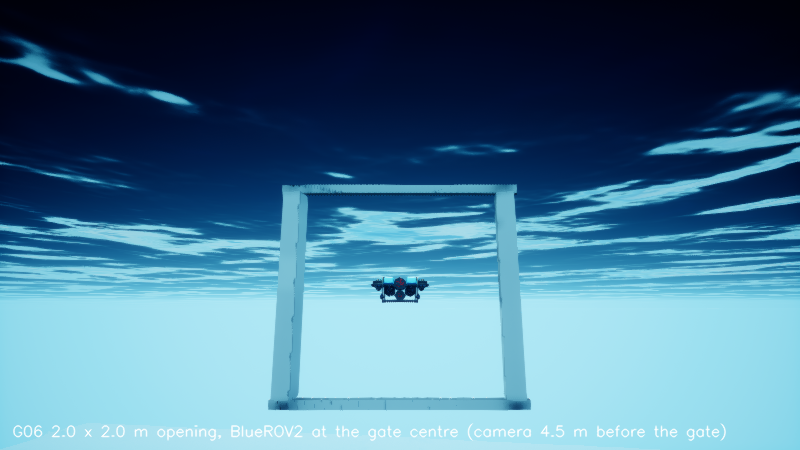
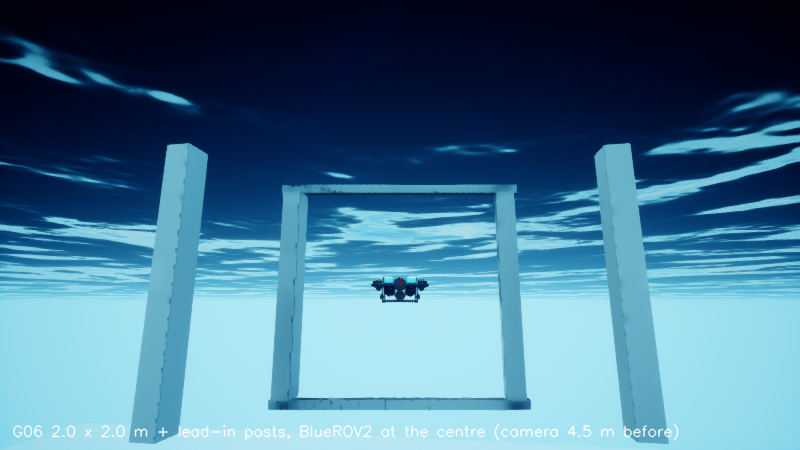
Add two lead-in posts at the relocalization hold point of gate G06
From the hold point before the critical region the side bars of the 2.0 m gate
fall at the edge of the LEFT/RIGHT cones, so a single fit often cannot tell the
lateral position. Two passive vertical posts with the side bars' section, at
s = -1.2 m and l = +-1.6 m (outside the critical region, beyond struct_keepout
of a drone on the axis), are mapped and spawned like the bars. In the closed-loop
replay of synthetic echoes at the hold zone the gate localization is confirmed
in 84 % of the poses instead of 47 %, never for a hull outside the opening.
Tests that placed the drone relative to the 1.5 m opening now place it relative
to the current one.

Changed region(s): [[0.1562, 0.3111, 0.9062, 0.9956], [0.5938, 0.6222, 0.6875, 0.9022]]

diff --git a/holo_fleet/arena_bridge.py b/holo_fleet/arena_bridge.py
@@ -25,6 +25,15 @@ HORSESHOE_TRACK = "marine_race_arena/tracks/marine_race_horseshoe_bay.json"
 # the opening still ends at the edges of the critical region (cr_half_width = cr_half_height = 1.0 m), so the mutex
 # geometry is unchanged.  The perception map and the spawned bars are built from the same overridden config.
 GATE_INNER_SIZE_M = {"G06": (2.0, 2.0)}
+# Two passive vertical lead-in posts per gate, at (s, +-|l|) in the gate frame [m], with the side bars' section and
+# height.  At the relocalization hold before the critical region (s ~ -1.2) the LEFT/RIGHT sonars see them near their
+# axis, a direct lateral range; the side bars alone fall at the edge of those cones there.  In the closed-loop replay
+# of synthetic echoes at the hold zone (s -1.8..-1.2, |l| <= 0.6, +-5 deg yaw, 0.3-0.5 m lateral error, 0.05 m range
+# noise, 8 % fades) the gate localization is confirmed in 84 % of the poses instead of 47 %, with no confirmation of
+# a hull outside the opening; one noise-free pose (s -1.8, a post at the FRONT cone edge) took a correction that
+# fixed the lateral error but moved the estimate 0.48 m along the axis.  Mapped like the bars (STRUCTURE), outside the critical region,
+# 1.6 m from the axis (beyond struct_keepout of a drone on the passage path).
+GATE_MARKERS_M = {"G06": (-1.2, 1.6)}
 
 
 def arena_root() -> Path:
@@ -69,8 +78,25 @@ def _gate_factory(track_rel: str, inner_size: Optional[dict] = None):
     return GateFactory(dataclasses.replace(cfg, gates=gates))
 
 
+def _visual_gate(factory, g, markers: Optional[dict] = None):
+    """The arena's four bars of gate g plus its GATE_MARKERS_M lead-in posts (copies of a side bar, moved)."""
+    vis = factory.build_visual_gate(g)
+    markers = GATE_MARKERS_M if markers is None else markers
+    if g.id not in markers:
+        return vis
+    s_m, l_m = markers[g.id]
+    side = next(b for b in vis.bars if b.part in ("left", "right"))
+    axis = np.array([g.passage_direction[0], g.passage_direction[1], 0.0], dtype=float)
+    axis /= np.linalg.norm(axis)
+    left = np.array([-axis[1], axis[0], 0.0])
+    extra = [dataclasses.replace(side, id=f"{g.id}_marker_{name}", part="marker",
+                                 position=tuple(float(v) for v in np.asarray(g.center, float) + s_m * axis + sign * l_m * left))
+             for name, sign in (("left", 1.0), ("right", -1.0))]
+    return dataclasses.replace(vis, bars=list(vis.bars) + extra)
+
+
 def load_arena_gates(track_rel: str = HORSESHOE_TRACK, gate_ids: Optional[Sequence[str]] = None,
-                     inner_size: Optional[dict] = None):
+                     inner_size: Optional[dict] = None, markers: Optional[dict] = None):
     from holo_fleet.mission import BarBox, GateSpec
 
     factory = _gate_factory(track_rel, inner_size)
@@ -80,7 +106,7 @@ def load_arena_gates(track_rel: str = HORSESHOE_TRACK, gate_ids: Optional[Sequen
     out: List[GateSpec] = []
     for gid in wanted:
         g = by_id[gid]
-        vis = factory.build_visual_gate(g)
+        vis = _visual_gate(factory, g, markers)
         bars = []
         for bar in vis.bars:
             axes = _rotation_axes(bar.rotation_rpy_deg)
@@ -98,7 +124,7 @@ def visual_gates(track_rel: str = HORSESHOE_TRACK, gate_ids: Optional[Sequence[s
     """Arena VisualGate objects (bars) for spawning with the arena's HoloOcean spawner."""
     factory = _gate_factory(track_rel)
     gates = [g for g in factory.build_gates() if gate_ids is None or g.id in gate_ids]
-    return factory.build_visual_gates(gates)
+    return [_visual_gate(factory, g) for g in gates]
 
 
 def make_spawner(env):

diff --git a/tests/test_gate_opening.py b/tests/test_gate_opening.py
@@ -2,7 +2,9 @@
 
 import numpy as np
 
-from holo_fleet.arena_bridge import GATE_INNER_SIZE_M, HORSESHOE_TRACK, load_arena_gates, visual_gates
+from holo_fleet.arena_bridge import GATE_INNER_SIZE_M, GATE_MARKERS_M, HORSESHOE_TRACK, load_arena_gates, visual_gates
+from holo_fleet.perception import sonar_geometry as sg
+from holo_fleet.perception.sonar_processing import EchoClassifier
 from holo_fleet.config import DEFAULT
 from holo_fleet.perception.structure_aiding import HULL_LAT_M
 
@@ -11,7 +13,7 @@ def _side_bar_inner_edges(g):
     edges = []
     for b in g.bars:
         s, l, dz = g.to_gate_frame(b.center)
-        if abs(l) > 0.1:                                         # the two vertical side bars
+        if abs(l) > 0.1 and abs(s) < 0.5:                        # the two vertical side bars (not the posts)
             edges.append(abs(l) - b.half[1])
     return edges
 
@@ -33,8 +35,9 @@ def test_the_spawned_bars_match_the_map():
 
 
 def test_the_track_opening_is_still_available():
-    g = load_arena_gates(HORSESHOE_TRACK, ["G06"], inner_size={})[0]
+    g = load_arena_gates(HORSESHOE_TRACK, ["G06"], inner_size={}, markers={})[0]
     assert (g.inner_width, g.inner_height) == (1.5, 1.5)
+    assert len(g.bars) == 4
 
 
 def test_the_opening_ends_at_the_critical_region_and_widens_the_hull_margin():
@@ -43,3 +46,38 @@ def test_the_opening_ends_at_the_critical_region_and_widens_the_hull_margin():
     assert g.inner_height / 2.0 <= DEFAULT.gate.cr_half_height + 1e-9
     assert g.inner_width / 2.0 - HULL_LAT_M > 0.58                     # MEDIUM lateral DR error at the gate
     assert 1.5 / 2.0 - HULL_LAT_M < 0.45
+
+
+def _posts(g):
+    return [b for b in g.bars if abs(g.to_gate_frame(b.center)[0]) > 0.5]
+
+
+def test_two_lead_in_posts_flank_the_hold_point_outside_the_critical_region():
+    g = load_arena_gates(HORSESHOE_TRACK, ["G06"])[0]
+    posts = _posts(g)
+    s_m, l_m = GATE_MARKERS_M["G06"]
+    assert len(posts) == 2 and len(g.bars) == 6
+    for b in posts:
+        s, l, dz = g.to_gate_frame(b.center)
+        assert abs(s - s_m) < 1e-6 and abs(abs(l) - l_m) < 1e-6 and abs(dz) < 1e-6
+        assert abs(s) - b.half[0] > DEFAULT.gate.cr_half_len                   # outside the critical region
+        assert abs(l) - b.half[1] - HULL_LAT_M > DEFAULT.env.struct_keepout    # a drone on the axis keeps clear
+    s_hold = -(DEFAULT.gate.cr_half_len + float(sg.HULL_HALF[0]) + 0.15)
+    assert abs(s_hold - s_m) < 0.1
+
+
+def test_at_the_hold_point_the_side_sonars_see_the_posts_first():
+    """LEFT/RIGHT, on the axis at the hold point: the nearest mapped structure in the nominal cone is the post."""
+    g = load_arena_gates(HORSESHOE_TRACK, ["G06"])[0]
+    clf = EchoClassifier(gate_bars=list(g.bars), cfg=DEFAULT)
+    yaw = np.arctan2(g.axis[1], g.axis[0])
+    R = np.array([[np.cos(yaw), -np.sin(yaw), 0.0], [np.sin(yaw), np.cos(yaw), 0.0], [0.0, 0.0, 1.0]])
+    p = g.from_gate_frame([GATE_MARKERS_M["G06"][0], 0.0, 0.0])
+    for sec in ("LEFT", "RIGHT"):
+        a, _ = clf._sector_frame(sec, R)
+        m = p + R @ sg.MOUNTS[sec]
+        d = np.asarray(clf.struct_pts) - m
+        r = np.linalg.norm(d, axis=1)
+        inside = np.degrees(np.arccos(np.clip((d @ a) / r, -1.0, 1.0))) <= clf.model.half_angle_deg
+        k = np.argmin(np.where(inside, r, np.inf))
+        assert abs(g.to_gate_frame(np.asarray(clf.struct_pts)[k])[0] - GATE_MARKERS_M["G06"][0]) < 0.2, sec

diff --git a/scripts/make_gate_width_figure.py b/scripts/make_gate_width_figure.py
@@ -47,7 +47,7 @@ def _front(ax, g, err, title):
     ax.text(err + hy, 0.30 + hz + 0.04, "hull touches the bar" if touch else f"{W / 2 - err - HULL_LAT_M:.2f} m to the bar",
             color=c, fontsize=8, ha="right", weight="bold")
     ax.set_title(title, fontsize=11, color=INK, loc="left")
-    ax.set_xlim(-1.45, 1.45)
+    ax.set_xlim(-1.95, 1.95)
     ax.set_ylim(-1.3, 1.4)
     ax.set_aspect("equal")
     ax.set_xlabel("lateral l [m]  (front view, looking along the passage)")
@@ -74,19 +74,19 @@ def _top(ax, g, errs, title):
         ax.plot([s_hold - 0.55], [e], marker="o", ms=5, color=c, zorder=4)
     ax.text(s_hold - 0.55, 0.62, "true l of the\nheld drones", fontsize=7.5, ha="center", color=INK)
     n_bad = sum(abs(e) + HULL_LAT_M > W / 2.0 for e in errs)
-    ax.text(-2.15, -1.32, f"{n_bad}/{len(errs)} held drones would touch", fontsize=8.5, color=BAD if n_bad else OK,
+    ax.text(-0.75, -1.72, f"{n_bad}/{len(errs)} held drones would touch", fontsize=8.5, color=BAD if n_bad else OK,
             weight="bold")
     ax.annotate("", xy=(2.1, 0.0), xytext=(-2.1, 0.0), arrowprops=dict(arrowstyle="->", color=INK, lw=0.8))
     ax.set_title(title, fontsize=11, color=INK, loc="left")
     ax.set_xlim(-2.2, 2.2)
-    ax.set_ylim(-1.45, 1.45)
+    ax.set_ylim(-1.85, 1.85)
     ax.set_aspect("equal")
     ax.set_xlabel("along the passage s [m]  (top view)")
     ax.set_ylabel("lateral l [m]")
 
 
 def main(out, holds=None):
-    old = load_arena_gates(HORSESHOE_TRACK, ["G06"], inner_size={})[0]
+    old = load_arena_gates(HORSESHOE_TRACK, ["G06"], inner_size={}, markers={})[0]
     new = load_arena_gates(HORSESHOE_TRACK, ["G06"])[0]
     errs = []
     if holds:
@@ -96,7 +96,7 @@ def main(out, holds=None):
     for col, (g, tag) in enumerate(((old, "BEFORE"), (new, "AFTER"))):
         m = g.inner_width / 2.0 - HULL_LAT_M
         _front(axs[0, col], g, worst, f"{tag}: opening {g.inner_width:.2f} x {g.inner_height:.2f} m, margin ±{m:.2f} m")
-        _top(axs[1, col], g, errs, f"{tag}: top view through the gate")
+        _top(axs[1, col], g, errs, f"{tag}: top view through the gate" + (" (lead-in posts at the hold point)" if len(g.bars) > 4 else ""))
     fig.suptitle(f"Gate G06 enlarged from {old.inner_width:.1f} x {old.inner_height:.1f} m to {new.inner_width:.1f} x "
                  f"{new.inner_height:.1f} m: hull-centre margin lateral {old.inner_width / 2 - HULL_LAT_M:.2f} -> "
                  f"{new.inner_width / 2 - HULL_LAT_M:.2f} m, vertical {old.inner_height / 2 - HULL_HALF[2]:.2f} -> "

diff --git a/tests/test_structure_aiding.py b/tests/test_structure_aiding.py
@@ -13,7 +13,7 @@ from holo_fleet.arena_bridge import HORSESHOE_TRACK, load_arena_gates
 from holo_fleet.config import DEFAULT
 from holo_fleet.perception import sonar_geometry as sg
 from holo_fleet.perception.sonar_processing import DYNAMIC, EchoClassifier
-from holo_fleet.perception.structure_aiding import MAX_CORR_M, StructureAiding
+from holo_fleet.perception.structure_aiding import HULL_LAT_M, MAX_CORR_M, StructureAiding
 from holo_fleet.sim.scenarios import SCENARIOS
 
 RANGES = DEFAULT.perc.sonar.ranges()
@@ -200,12 +200,13 @@ GATES = list(SC.plans[0].structures)
 
 
 def test_a_fit_that_puts_the_hull_outside_the_opening_is_rejected():
-    """Robust clearance: the drone is really 0.6 m off the axis (hull beyond the free opening).  Whatever the fit says,
-    no correction is applied and the gate localization is never valid: the drone must not enter."""
+    """Robust clearance: the drone's hull is really 0.1 m beyond the free opening.  Whatever the fit says, no
+    correction is applied and the gate localization is never valid: the drone must not enter."""
     clf = EchoClassifier(gate_bars=BARS, cfg=DEFAULT)
     aid = StructureAiding(clf, DEFAULT, gates=GATES)
     R = _R()
-    p_true, p_est = _world(-1.1, -0.6), _world(-1.1, 0.0)
+    l_true = -(GATE.inner_width / 2.0 - HULL_LAT_M + 0.1)
+    p_true, p_est = _world(-1.1, l_true), _world(-1.1, 0.0)
     for k in range(12):
         corr = aid.update(p_est, R, _profiles(clf, p_true, R), {s: 0.0 for s in sg.SECTORS}, 0.25, t=0.1 * k)
         assert corr is None
@@ -227,8 +228,8 @@ def test_an_equally_good_far_position_makes_the_fit_ambiguous():
     """Logged echoes (MEDIUM-ALL integrated_short seed 2, drone 1, t = 85.9 s): the estimate is on the axis, the drone
     really 0.56 m to the left.  The estimate explains three sectors and the true pose explains them as well (total cost
     0.818 vs 0.820): the echoes cannot separate them, so the localization must not be confirmed.  The echoes were
-    recorded at the track's 1.5 m wide G06, so that gate is the map here."""
-    gates = load_arena_gates(HORSESHOE_TRACK, ["G06"], inner_size={})
+    recorded at the track's 1.5 m wide G06 without posts, so that gate is the map here."""
+    gates = load_arena_gates(HORSESHOE_TRACK, ["G06"], inner_size={}, markers={})
     g = gates[0]
     clf = EchoClassifier(gate_bars=[b for gg in gates for b in gg.bars], cfg=DEFAULT)
     aid = StructureAiding(clf, DEFAULT, gates=gates)

diff --git a/scripts/snap_gate_sim.py b/scripts/snap_gate_sim.py
@@ -46,8 +46,8 @@ def main(out):
         # the camera sits on the BlueROV2 IMUSocket, which is rolled 180 deg about the body x axis (its PoseSensor
         # z axis points down): the frame comes out rotated by 180 deg
         img = cv2.rotate(np.ascontiguousarray(img[:, :, :3]), cv2.ROTATE_180)
-        cv2.putText(img, f"G06 {g6.inner_width:.1f} x {g6.inner_height:.1f} m opening, BlueROV2 at the gate centre "
-                    "(camera 4.5 m before the gate)", (12, img.shape[0] - 14), cv2.FONT_HERSHEY_SIMPLEX, 0.5, (255, 255, 255), 1,
+        cv2.putText(img, f"G06 {g6.inner_width:.1f} x {g6.inner_height:.1f} m + lead-in posts, BlueROV2 at the centre "
+                    "(camera 4.5 m before)", (12, img.shape[0] - 14), cv2.FONT_HERSHEY_SIMPLEX, 0.5, (255, 255, 255), 1,
                     cv2.LINE_AA)
         cv2.imwrite(out, img)
         print(out, img.shape)
